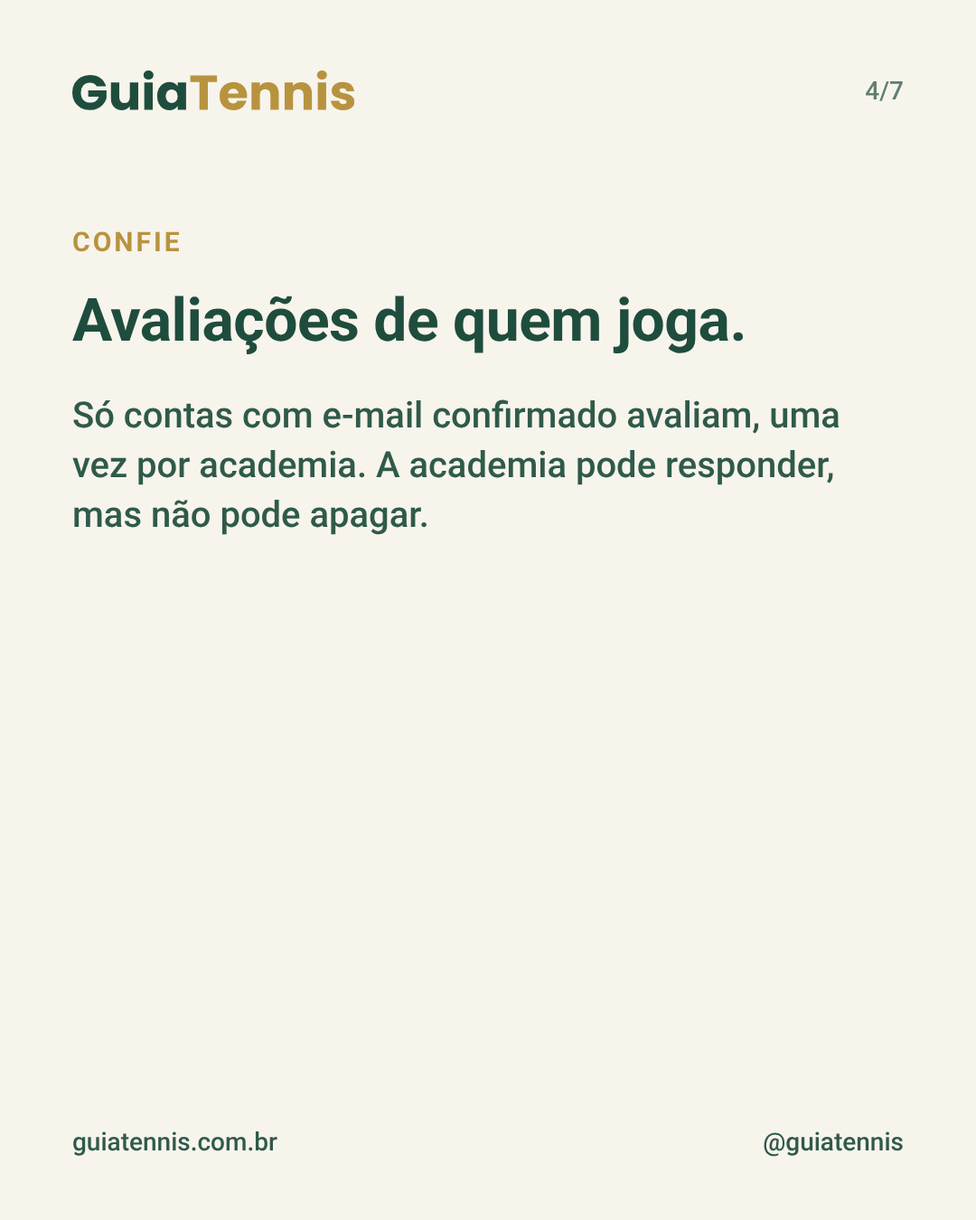
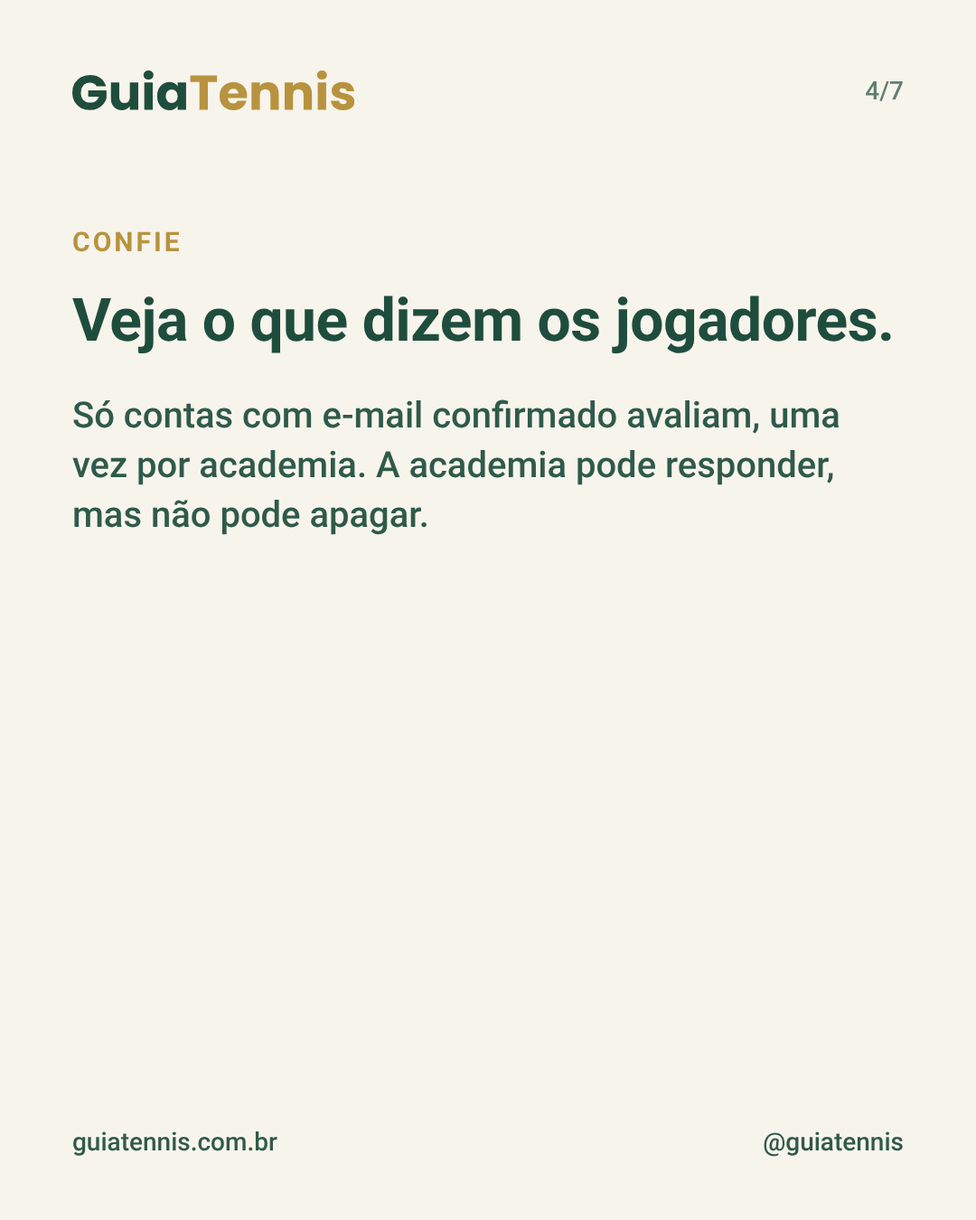
Kit do Instagram com a estratégia de gatilhos verdadeiros: dor, risco zero, escassez real, curiosidade e prova social
Claude-Session: https://claude.ai/code/session_013HDjzM8Wjp8KK1LoemJUSu

Changed region(s): [[0.0611, 0.2178, 0.9167, 0.28]]

diff --git a/divulgacao/lancamento/gerar-lancamento.js b/divulgacao/lancamento/gerar-lancamento.js
@@ -78,62 +78,68 @@ function stories({ eyebrow = '', titulo = '', texto = '' }) {
   <div class="linha" style="bottom:150px;font-size:38px;font-weight:500;opacity:.92">@guiatennis</div>`, 700);
 }
 
-// ---------- Carrossel 1 (quinta): como usar o site, passo a passo ----------
-// O perfil já apresentou a ideia (25/11/2026: "já falamos algumas coisas sobre a ideia,
-// mas não muito como usar o site"): agora o passo a passo, com os botões e os filtros
-// com os nomes que estão no site.
+// ---------- Os textos (regra de marketing de 22/11/2026 e pedido de 26/11/2026: "a melhor
+// estratégia para o Instagram de marketing, como aquela regra de gatilhos para venda [...]
+// a gente precisa conversar com o público, trabalhamos com brasileiros e precisamos vender
+// o site também"). Gatilhos só verdadeiros: a dor real de quem joga em São Paulo (preço
+// escondido, trânsito, chuva), risco zero (grátis, sem cadastro, sem taxa), escassez real
+// (as 15 vagas de Fundadora, contadas no site), novidade, curiosidade e reciprocidade
+// (conteúdo útil para salvar). Prova social só com o que existe (academias marcadas,
+// comentários e avaliações reais); nenhum número inventado.
+// ---------- Carrossel 1 (quinta): o passo a passo ----------
 const passoAPasso = [
-  { grande: true, quadra: 560, eyebrow: 'Passo a passo', titulo: 'Como encontrar aula de tênis perto de você em 1 minuto.', texto: 'Salve para usar quando precisar.', rodape: 'Deslize ›' },
-  { tom: 'creme', ui: 'busca', eyebrow: 'Passo 1', titulo: 'Diga onde você está.', texto: 'Em guiatennis.com.br, digite o bairro ou o CEP, ou toque em "Usar minha localização".' },
-  { ui: 'filtros', eyebrow: 'Passo 2', titulo: 'Filtre do seu jeito.', texto: 'Aula ou locação, piso, quadra coberta, preço e horário.' },
-  { tom: 'creme', ui: 'ficha', eyebrow: 'Passo 3', titulo: 'Abra a ficha da academia.', texto: 'Tudo o que você precisa saber antes de chamar:' },
+  { grande: true, quadra: 560, eyebrow: 'Salve este post', titulo: 'Pare de mandar mensagem para 10 academias só para saber o preço.', texto: 'Veja como encontrar aula de tênis perto de você em 1 minuto.', rodape: 'Deslize ›' },
+  { tom: 'creme', ui: 'busca', eyebrow: 'Passo 1', titulo: 'Diga onde você está.', texto: 'Em guiatennis.com.br, digite o bairro ou o CEP, ou toque em "Usar minha localização". Perto de casa ou do trabalho: menos trânsito, mais quadra.' },
+  { ui: 'filtros', eyebrow: 'Passo 2', titulo: 'Filtre do seu jeito.', texto: 'Aula ou locação, piso, quadra coberta para os dias de chuva, preço e horário.' },
+  { tom: 'creme', ui: 'ficha', eyebrow: 'Passo 3', titulo: 'Veja tudo antes de chamar.', texto: 'Na ficha de cada academia:' },
   { ui: 'whatsapp', eyebrow: 'Passo 4', titulo: 'Chame direto no WhatsApp.', texto: 'Sem intermediário e sem taxa: você combina o horário e o valor com a academia.' },
-  { tom: 'creme', ui: 'varias', eyebrow: 'Dica', titulo: 'Quer comparar preços?', texto: 'Na lista da busca, peça o preço a várias academias de uma vez.' },
-  { grande: true, quadra: 560, eyebrow: 'Teste agora', titulo: 'guiatennis.com.br', texto: 'Mande para quem quer começar a jogar.', rodape: 'O link está na bio' },
-];
-// ---------- Carrossel 4 (semana que vem): funções que facilitam ----------
-const funcoes = [
-  { grande: true, quadra: 560, eyebrow: 'Você sabia?', titulo: '5 funções do GuiaTennis que facilitam a sua vida.', texto: 'Salve para não esquecer.', rodape: 'Deslize ›' },
-  { tom: 'creme', eyebrow: '1 · Comparar academias', titulo: 'Lado a lado.', texto: 'Escolha algumas academias e veja preço, estrutura e nota uma ao lado da outra.' },
-  { eyebrow: '2 · Favoritas', titulo: 'Guarde as que você gostou.', texto: 'Toque no coração da ficha e encontre as academias depois, no menu, em "Favoritas".' },
-  { tom: 'creme', eyebrow: '3 · Vou viajar', titulo: 'A raquete vai junto.', texto: 'Informe a cidade e o lugar em que você vai ficar e veja as quadras mais perto de lá.' },
-  { eyebrow: '4 · Quadras públicas', titulo: 'Jogar sem pagar.', texto: 'Use o filtro "Quadras públicas" para encontrar as quadras gratuitas em parques e praças.' },
-  { tom: 'creme', eyebrow: '5 · Sugerir', titulo: 'Falta alguma quadra?', texto: 'Toque em "Sugerir uma quadra ou academia", no fim da busca ou no menu. A equipe do GuiaTennis confere e coloca no site.' },
-  { grande: true, quadra: 560, eyebrow: 'Conte para nós', titulo: 'Qual delas você vai usar primeiro?', texto: 'Responda nos comentários.', rodape: 'guiatennis.com.br · link na bio' },
+  { tom: 'creme', ui: 'varias', eyebrow: 'Dica de quem economiza', titulo: 'Compare antes de decidir.', texto: 'Na lista da busca, peça o preço a várias academias de uma vez e escolha com calma.' },
+  { grande: true, quadra: 560, eyebrow: 'Grátis · sem cadastro · sem taxa', titulo: 'Teste agora: guiatennis.com.br', texto: 'Mande este post para quem joga com você.', rodape: 'O link está na bio' },
 ];
 // ---------- Carrossel 2 (domingo): o lançamento ----------
 const lancamento = [
-  { grande: true, quadra: 560, eyebrow: 'Chegou', titulo: 'O novo GuiaTennis está no ar.', texto: 'Aula e quadra de tênis perto de você: compare e fale direto com a academia.', rodape: 'Deslize ›' },
+  { grande: true, quadra: 560, eyebrow: 'Chegou', titulo: 'O novo GuiaTennis está no ar.', texto: 'Aula e quadra de tênis perto de você, em um só lugar.', rodape: 'Deslize e veja o que mudou ›' },
   { tom: 'creme', eyebrow: 'Busque', titulo: 'Pelo seu bairro.', texto: 'Digite o bairro ou o CEP, ou use a sua localização. As academias mais perto aparecem primeiro, na lista ou no mapa.' },
-  { eyebrow: 'Compare', titulo: 'Antes de chamar.', itens: [
+  { eyebrow: 'Compare', titulo: 'Sem surpresa na hora de pagar.', itens: [
     'Preço das aulas e da locação de quadra.',
-    'Tipo de piso e se a quadra é coberta.',
+    'Piso e se a quadra é coberta.',
     'Estacionamento, vestiário e outras comodidades.',
     'Aulas para adultos e para crianças.'] },
-  { tom: 'creme', eyebrow: 'Confie', titulo: 'Avaliações de quem joga.', texto: 'Só contas com e-mail confirmado avaliam, uma vez por academia. A academia pode responder, mas não pode apagar.' },
-  { eyebrow: 'Chame', titulo: 'Direto no WhatsApp.', texto: 'Sem intermediário e sem taxa: você combina o horário e o valor direto com a academia.' },
-  { tom: 'creme', eyebrow: 'Feito para quem joga', titulo: 'Grátis, sem cadastro e sem taxa.', texto: 'Conhece uma quadra ou academia que ainda não está no GuiaTennis? Sugira pelo site.' },
-  { grande: true, quadra: 560, eyebrow: 'Experimente agora', titulo: 'guiatennis.com.br', texto: 'O link está na bio.', rodape: 'Marque quem precisa de uma quadra' },
+  { tom: 'creme', eyebrow: 'Confie', titulo: 'Veja o que dizem os jogadores.', texto: 'Só contas com e-mail confirmado avaliam, uma vez por academia. A academia pode responder, mas não pode apagar.' },
+  { eyebrow: 'Choveu?', titulo: 'Filtre as quadras cobertas.', texto: 'E use "Aberto agora" para achar onde jogar hoje.' },
+  { tom: 'creme', eyebrow: 'Chame', titulo: 'Direto no WhatsApp, sem taxa.', texto: 'Você combina tudo com a academia. O GuiaTennis não fica no meio e não cobra nada de quem joga.' },
+  { grande: true, quadra: 560, eyebrow: 'Grátis · sem cadastro · sem taxa', titulo: 'Experimente agora.', texto: 'Comente o seu bairro: respondemos com as academias de lá.', rodape: 'guiatennis.com.br · link na bio' },
 ];
 // ---------- Carrossel 3 (segunda): para as academias ----------
 const academias = [
-  { grande: true, quadra: 560, eyebrow: 'Para academias de tênis', titulo: 'A sua academia no GuiaTennis.', texto: 'Mais alunos chegando pelo WhatsApp, sem taxa por aluno.', rodape: 'Deslize ›' },
-  { tom: 'creme', eyebrow: 'Quem chega já sabe o que quer', titulo: 'O jogador chama pronto para marcar.', texto: 'Ele vê preço, estrutura e avaliações antes de chamar. A conversa no WhatsApp já começa pela aula ou pelo horário.' },
+  { grande: true, quadra: 560, eyebrow: 'Para donos de academia de tênis', titulo: 'Os alunos procuram aula no celular. A sua academia aparece?', texto: 'No GuiaTennis, ela aparece para quem procura no bairro, e de graça.', rodape: 'Deslize ›' },
+  { tom: 'creme', eyebrow: 'Quem chega já está decidido', titulo: 'O jogador chama pronto para marcar.', texto: 'Ele vê o preço, a estrutura e as avaliações antes. A conversa no WhatsApp já começa pelo horário.' },
   { eyebrow: 'GuiaTennis Parceiros, grátis', titulo: 'Tudo da academia em um só lugar.', itens: [
     'Preços, horários e todas as comodidades na ficha.',
     'Fotos da academia.',
     'Resposta pública a cada avaliação.',
     'QR code da ficha para a recepção.'], rodape: 'Nos planos Completo e Premium: mais fotos, Instagram e site e quantos chamaram' },
-  { tom: 'creme', eyebrow: 'Fundadoras: 15 vagas', titulo: 'O selo "Fundadora do GuiaTennis".', texto: 'Os 15 primeiros donos de academia a chegar ao GuiaTennis ganham o selo na ficha, para sempre.' },
-  { grande: true, quadra: 560, eyebrow: 'guiatennis.com.br/parceiros', titulo: 'Comece grátis.', texto: 'Cadastre a academia ou assuma a ficha que já está no Guia.', rodape: 'Marque a academia em que você joga' },
+  { tom: 'creme', eyebrow: 'Sem risco', titulo: 'Sem comissão por aluno.', texto: 'O jogador chama direto no WhatsApp da academia. E o Premium pode ser testado por 1 mês grátis.' },
+  { eyebrow: 'Só 15 vagas', titulo: 'Selo "Fundadora do GuiaTennis", para sempre.', texto: 'Para os 15 primeiros donos de academia a chegar ao GuiaTennis. Veja no site quantas vagas restam.' },
+  { grande: true, quadra: 560, eyebrow: 'guiatennis.com.br/parceiros', titulo: 'Garanta a vaga da sua academia.', texto: 'Cadastre a academia ou assuma a ficha que já está no Guia.', rodape: 'Marque a academia em que você joga' },
+];
+// ---------- Carrossel 4 (semana que vem): funções que facilitam ----------
+const funcoes = [
+  { grande: true, quadra: 560, eyebrow: 'Salve para não esquecer', titulo: '5 funções do GuiaTennis que facilitam a sua vida.', texto: 'A 3ª é para quem vai viajar.', rodape: 'Deslize ›' },
+  { tom: 'creme', eyebrow: '1 · Comparar academias', titulo: 'Lado a lado.', texto: 'Escolha algumas academias e veja preço, estrutura e nota uma ao lado da outra.' },
+  { eyebrow: '2 · Favoritas', titulo: 'Guarde as de que você gostou.', texto: 'Toque no coração da ficha e encontre as academias depois, no menu, em "Favoritas".' },
+  { tom: 'creme', eyebrow: '3 · Vou viajar', titulo: 'A raquete vai junto.', texto: 'Informe a cidade e o lugar em que você vai ficar e veja as quadras mais perto de lá.' },
+  { eyebrow: '4 · Quadras públicas', titulo: 'Jogar sem pagar.', texto: 'Use o filtro "Quadras públicas" para encontrar as quadras gratuitas em parques e praças.' },
+  { tom: 'creme', eyebrow: '5 · Sugerir', titulo: 'Falta alguma quadra?', texto: 'Toque em "Sugerir uma quadra ou academia", no fim da busca ou no menu. A equipe do GuiaTennis confere e coloca no site.' },
+  { grande: true, quadra: 560, eyebrow: 'Responda nos comentários', titulo: 'Qual delas você vai usar primeiro?', texto: 'Comente só o número: 1, 2, 3, 4 ou 5.', rodape: 'guiatennis.com.br · link na bio' },
 ];
 // ---------- Stories ----------
 const historias = {
-  'stories-1-quinta-contagem.png': { eyebrow: 'Domingo, 29/11', titulo: 'Algo novo chega para quem joga tênis.', figurinha: 'adicione aqui a figurinha de contagem regressiva' },
-  'stories-2-quinta-enquete.png': { eyebrow: 'Responda', titulo: 'Em que bairro você joga?', figurinha: 'adicione aqui a figurinha de enquete ou de pergunta' },
-  'stories-3-sexta-perguntas.png': { eyebrow: 'Queremos ouvir você', titulo: 'O que mais dificulta encontrar aula de tênis?', figurinha: 'adicione aqui a caixa de perguntas' },
-  'stories-4-domingo-no-ar.png': { eyebrow: 'Está no ar', titulo: 'O novo GuiaTennis chegou.', texto: 'Aula e quadra de tênis perto de você.', figurinha: 'adicione aqui a figurinha de link: guiatennis.com.br' },
-  'stories-5-segunda-academias.png': { eyebrow: 'Para academias', titulo: 'Sua academia no GuiaTennis, grátis.', texto: 'Os 15 primeiros donos ganham o selo Fundadora.', figurinha: 'adicione aqui o link: guiatennis.com.br/parceiros' },
+  'stories-1-quinta-contagem.png': { eyebrow: 'Domingo, 18h', titulo: 'Algo novo para quem joga tênis em São Paulo.', texto: 'Toque em "Lembrar" para não perder.' },
+  'stories-2-quinta-enquete.png': { eyebrow: 'Responda', titulo: 'O que mais atrapalha na hora de achar aula de tênis?' },
+  'stories-3-sexta-perguntas.png': { eyebrow: 'Queremos ouvir você', titulo: 'Em que bairro você joga?', texto: 'Respondemos com as academias de lá.' },
+  'stories-4-domingo-no-ar.png': { eyebrow: 'Está no ar', titulo: 'O novo GuiaTennis chegou.', texto: 'Grátis, sem cadastro e sem taxa.' },
+  'stories-5-segunda-academias.png': { eyebrow: 'Só 15 vagas', titulo: 'Selo "Fundadora do GuiaTennis".', texto: 'Para os 15 primeiros donos de academia a chegar.' },
 };
 
 (async () => {

diff --git a/divulgacao/lancamento/ROTEIRO.md b/divulgacao/lancamento/ROTEIRO.md
@@ -1,21 +1,53 @@
 # Lançamento do novo GuiaTennis no Instagram (domingo, 29/11/2026)
 
-A linha: **conversar e ensinar**. O perfil já apresentou a ideia; agora mostra **como usar o site**, em
-carrosséis de passo a passo e, principalmente, em **vídeos com você falando**: no perfil, eles tiveram de 2 a
-10 vezes mais visualizações que os carrosséis (1.416 e 627, contra 140 a 293). Em todo post, um convite para o
-público responder: comentário, enquete ou pergunta. Quem responde vê mais os posts seguintes e vira contato.
+## A estratégia
+
+**Conversar, ensinar e só então vender.** O perfil já apresentou a ideia; agora mostra **como usar o site**
+e fala das **dores reais de quem joga em São Paulo**: preço escondido, trânsito e chuva. O formato principal é
+o **vídeo com você falando**: no perfil, ele teve de 2 a 10 vezes mais visualizações que os carrosséis
+(1.416 e 627, contra 140 a 293). Os carrosséis são o material para salvar e compartilhar.
+
+Cada peça segue a mesma ordem (a dos grandes perfis de produto, como o Nubank e o Airbnb):
+1. **Gancho** nos 3 primeiros segundos ou na capa: uma dor ou uma curiosidade.
+2. **Valor**: algo útil, que a pessoa salva ou manda para alguém.
+3. **Convite**: um único pedido claro (comentar, salvar, compartilhar ou tocar no link).
+
+### Os gatilhos de venda, sempre verdadeiros
+
+| Gatilho | Onde usamos | Regra |
+|---|---|---|
+| **Dor** (problema real) | "Pare de mandar mensagem para 10 academias só para saber o preço"; trânsito; chuva | Só dores que o site resolve de verdade |
+| **Risco zero** | "Grátis · sem cadastro · sem taxa" no fim de cada carrossel; para academias, "sem comissão por aluno" e o Premium com 1 mês grátis | É o que o site oferece hoje |
+| **Escassez** | As **15 vagas** de Fundadora | Real e contada no site; nunca dizer quantas restam sem conferir |
+| **Urgência** | Contagem regressiva para domingo, 18h | Data real do lançamento |
+| **Novidade** | "Chegou o novo GuiaTennis" | — |
+| **Curiosidade** | "A 3ª é para quem vai viajar"; "Algo novo para quem joga tênis em São Paulo" | A resposta tem de vir no próprio post |
+| **Reciprocidade** | Passo a passo, "Quanto custa aula de tênis em SP?", dicas para salvar | Dar valor antes de pedir |
+| **Prova social** | Marcar as academias que já estão no Guia; repostar comentários e Stories de quem usou; avaliações reais (com autorização) | **Nunca inventar números nem depoimentos** |
+| **Pertencimento** | "Para quem joga tênis em São Paulo"; "Marque quem joga com você" | — |
+
+### O que transforma seguidor em contato
+- **"Comente o seu bairro"**: responda a cada comentário com o link da página do bairro (ex.:
+  guiatennis.com.br/quadras/sao-paulo/moema) e, se a pessoa quiser, por mensagem direta. Cada resposta leva
+  alguém ao site, e o Instagram mostra mais o post que tem conversa.
+- **Responda tudo na primeira hora** depois de postar: é a hora em que o Instagram decide para quantas
+  pessoas mostrar o post.
+- **Posts em colaboração (Collab)** com as academias: o post aparece nos dois perfis.
 
 ## Cronograma
 
 | Quando | O quê | Arquivos |
 |---|---|---|
-| **Quarta (hoje)** | Trocar a bio (abaixo). Conferir as fichas da região em que for divulgar mais (preço e foto). | — |
-| **Quinta, 12h** | Carrossel "Como encontrar aula de tênis em 1 minuto" (passo a passo) + Stories com contagem regressiva e enquete | `carrossel-1-quinta-passo-a-passo-1` a `7`, `stories-1`, `stories-2` |
-| **Sexta, 18h** | Reels 1, você falando com o site na tela (roteiro abaixo) + Stories com caixa de perguntas | `stories-3` |
-| **Sábado** | Stories respondendo às perguntas de sexta e repostando as academias que já estão no Guia | — |
-| **Domingo, 18h** | Carrossel "Chegou" + Reels gravando a tela + Stories com o link. Fixar os carrosséis de quinta e de domingo no perfil | `carrossel-2-domingo-lancamento-1` a `7`, `stories-4` |
-| **Segunda, 12h** | Carrossel para academias + Stories + mensagem no WhatsApp para cada academia | `carrossel-3-segunda-academias-1` a `5`, `stories-5` |
-| **Semana que vem** | Carrossel "5 funções que facilitam" (quarta) e os Reels 2, 3 e 4 (terça, quinta e sábado, 18h) | `carrossel-4-semana-que-vem-funcoes-1` a `7` |
+| **Quarta (hoje)** | Trocar a bio e a categoria (abaixo). Conferir as fichas do bairro que você vai mostrar nos vídeos (preço e foto). | — |
+| **Quinta, 12h** | Carrossel "Pare de mandar mensagem para 10 academias" (passo a passo) + Stories com contagem regressiva e enquete | `carrossel-1-quinta-passo-a-passo-1` a `7`, `stories-1`, `stories-2` |
+| **Sexta, 18h** | Reels 1, você falando com o site na tela + Stories "Em que bairro você joga?" | `stories-3` |
+| **Sábado** | Stories respondendo aos bairros e repostando as academias que já estão no Guia (prova social) | — |
+| **Domingo, 18h** | Carrossel "Chegou" + Reels de tela + Stories com o link. Fixar no perfil o carrossel de domingo e o de quinta | `carrossel-2-domingo-lancamento-1` a `7`, `stories-4` |
+| **Segunda, 12h** | Carrossel para academias + Stories + mensagem no WhatsApp para cada academia | `carrossel-3-segunda-academias-1` a `6`, `stories-5` |
+| **Semana que vem** | Carrossel "5 funções" (quarta) e os Reels 2, 3, 4 e 5 (terça, quinta, sábado e domingo, 18h) | `carrossel-4-semana-que-vem-funcoes-1` a `7` |
+
+O carrossel "5 funções" fala do botão "Sugerir uma quadra ou academia": poste-o só depois que as novidades do
+site estiverem no ar.
 
 ## Bio
 
@@ -24,101 +56,120 @@ público responder: comentário, enquete ou pergunta. Quem responde vê mais os 
 > 💬 Fale direto com a academia, sem taxa
 > 👇 Grátis, sem cadastro
 
-O link guiatennis.com.br fica no campo de link, logo abaixo. Um emoji no começo de cada linha, como
-marcador (como o Nubank e o Airbnb fazem): ajuda a ler rápido sem poluir. Categoria do perfil: troque
-"Health & wellness website" por uma de esporte (procure "esporte" na lista de categorias).
-
-Destaques fixos: **Como usar** (o Reels de domingo), **Academias** (o carrossel de segunda) e **Novidades**.
+O link guiatennis.com.br fica no campo de link, logo abaixo. **Categoria:** troque "Health & wellness website"
+por uma de esporte (em Editar perfil › Categoria, procure "esporte"). **Destaques fixos:** "Como usar" (os
+Reels), "Academias" (o carrossel de segunda) e "Novidades".
 
 ## Legendas
 
-**Quinta — "Como encontrar aula de tênis em 1 minuto"**
+**Quinta — passo a passo**
 
-> Aula de tênis perto de você em 4 passos: diga onde você está, filtre do seu jeito, abra a ficha da
-> academia e chame direto no WhatsApp. Sem cadastro, sem taxa e sem intermediário.
+> Você também já mandou mensagem para várias academias só para saber o preço? 😅
 >
-> Salve este post para usar quando precisar e mande para quem quer começar a jogar.
-> No domingo, o novo GuiaTennis chega para todos.
+> No GuiaTennis, você encontra aula de tênis perto de você em 1 minuto:
+> 1⃣ diga onde você está
+> 2⃣ filtre do seu jeito
+> 3⃣ veja tudo na ficha da academia
+> 4⃣ chame direto no WhatsApp
 >
-> 💬 Conte nos comentários: em que bairro você joga?
+> Grátis, sem cadastro e sem taxa. E, no domingo, chega o novo GuiaTennis. 👀
+>
+> 📌 Salve para usar quando precisar e mande para quem joga com você.
+> 💬 Em que bairro você joga? Respondemos com as academias de lá.
 >
 > #tenis #tenissp #aulasdetenis #quadradetenis #saopaulo
 
-**Domingo — "Chegou"**
+**Domingo — lançamento**
 
-> O novo GuiaTennis está no ar. 🎾
+> Chegou o novo GuiaTennis. 🎾
 >
-> Busque pelo seu bairro, compare preço, estrutura e avaliações e fale direto com a academia pelo WhatsApp. Sem
-> intermediário, sem taxa e sem cadastro para buscar.
+> Aula e quadra de tênis perto de você, em um só lugar: busque pelo bairro, compare preço, estrutura e
+> avaliações e fale direto com a academia pelo WhatsApp. Choveu? Filtre as quadras cobertas.
 >
-> Comente o seu bairro: respondemos com as academias de lá.
-> O link está na bio: guiatennis.com.br
+> ✅ Grátis para quem joga ✅ Sem cadastro para buscar ✅ Sem taxa
+>
+> 💬 Comente o seu bairro: respondemos com as academias de lá.
+> 🔗 Link na bio: guiatennis.com.br
 >
 > #tenis #tenissp #aulasdetenis #quadradetenis #saopaulo
 
-**Segunda — "Para academias"**
+**Segunda — academias**
 
-> A sua academia no GuiaTennis, grátis. Quem procura aula vê preço, estrutura e avaliações antes de
-> chamar e chega pelo WhatsApp pronto para marcar.
+> Dono de academia de tênis: os alunos procuram aula no celular. A sua academia aparece? 👀
 >
-> Os 15 primeiros donos de academia a chegar ganham o selo "Fundadora do GuiaTennis" na ficha, para
-> sempre.
+> No GuiaTennis, a ficha é grátis e o jogador chama direto no seu WhatsApp, sem comissão por aluno.
 >
-> Comece em guiatennis.com.br/parceiros
+> 🏆 Só 15 vagas: os 15 primeiros donos de academia a chegar ganham o selo "Fundadora do GuiaTennis" na
+> ficha, para sempre.
+>
+> 👉 guiatennis.com.br/parceiros
 > Marque a academia em que você joga. 👇
 >
 > #tenis #academiadetenis #tenissp #saopaulo
 
+**Semana que vem — 5 funções**
+
+> 5 funções do GuiaTennis que facilitam a sua vida (a 3ª é para quem vai viajar). ✈🎾
+>
+> 💬 Qual você vai usar primeiro? Comente só o número.
+> 📌 Salve para não esquecer.
+> 🔗 guiatennis.com.br, link na bio
+
 ## Stories
 
-1. **Quinta — `stories-1`:** figurinha de **contagem regressiva** ("Lançamento do GuiaTennis", domingo, 18h).
-   Quem toca em "Lembrar" recebe o aviso na hora do lançamento.
-2. **Quinta — `stories-2`:** figurinha de **enquete** com as 4 regiões (Zona Sul, Oeste, Norte e Leste) ou
-   de **pergunta** ("Digite o seu bairro"). As respostas mostram onde divulgar primeiro.
-3. **Sexta — `stories-3`:** **caixa de perguntas**. No sábado, responda às melhores com a figurinha
-   "Responder" (vira conteúdo e mostra que há gente por trás).
+1. **Quinta — `stories-1`:** figurinha de **contagem regressiva** ("Novo GuiaTennis", domingo, 18h). Quem toca
+   em "Lembrar" recebe o aviso na hora do lançamento.
+2. **Quinta — `stories-2`:** figurinha de **enquete** com 4 opções: "Preço escondido", "Distância e trânsito",
+   "Horário" e "Achar academia boa". O resultado vira assunto dos próximos posts.
+3. **Sexta — `stories-3`:** figurinha de **pergunta** ("Digite o seu bairro"). No sábado, responda com a
+   figurinha "Responder" e o link da página do bairro.
 4. **Domingo — `stories-4`:** figurinha de **link** para guiatennis.com.br. Em seguida, a gravação da tela.
 5. **Segunda — `stories-5`:** figurinha de **link** para guiatennis.com.br/parceiros.
 
 ## Reels com você falando (o formato que mais funciona no perfil)
 
-Como os dois vídeos que mais deram certo: você olhando para a câmera, a frase-gancho escrita na tela nos
-primeiros 3 segundos e legenda automática ligada. Para mostrar o site atrás de você, use o efeito **"Tela
+Como os vídeos que mais deram certo: você olhando para a câmera, a frase-gancho escrita na tela nos 3
+primeiros segundos e a legenda automática ligada. Para mostrar o site atrás de você, use o efeito **"Tela
 verde"** do Instagram (Reels › Efeitos › Tela verde) com um print do site. De 20 a 35 segundos cada.
 
-**Reels 1 (sexta) — "Como achar aula de tênis perto de você"**
-- Texto na tela: **"Aula de tênis perto de você em 1 minuto"**
-- "Quer jogar tênis e não sabe por onde começar? Veja como é simples." (tela verde com a busca) "Entre no
-  guiatennis.com.br, digite o seu bairro ou toque em 'Usar minha localização'." (print da lista) "Aparecem as
-  academias mais perto, com o preço de quem informa." (print da ficha) "Abra a de que você gostou, veja a
-  quadra, o preço e as avaliações e chame direto no WhatsApp, sem taxa. Salve este vídeo e mande para quem
-  quer começar."
+**Reels 1 (sexta) — dor + passo a passo**
+- Texto na tela: **"Pare de mandar mensagem para 10 academias"**
+- "Você também manda mensagem para várias academias só para saber o preço da aula? Veja como resolver em 1
+  minuto." (tela verde com a busca) "Entre no guiatennis.com.br, digite o seu bairro ou toque em 'Usar minha
+  localização'." (print da lista) "Aparecem as academias mais perto, com o preço de quem informa." (print da
+  ficha) "Abra a de que você gostou, veja a quadra e as avaliações e chame direto no WhatsApp, sem taxa. Salve
+  este vídeo e mande para quem joga com você."
 
-**Reels 2 — "Quanto custa aula de tênis em São Paulo?"**
+**Reels 2 — curiosidade + engajamento**
 - Texto na tela: **"Quanto custa aula de tênis em SP?"**
-- "Essa é uma das perguntas que mais recebemos. Depende do bairro e do tipo de aula: individual, em dupla
-  ou em grupo." (tela verde com a ordem "Menor preço") "No GuiaTennis, você ordena por menor preço e vê o
-  valor antes de chamar, nas academias que informam o preço. Comente o seu bairro, e eu respondo com as
-  opções de lá."
+- "Essa é uma das perguntas que mais recebemos. Depende do bairro e do tipo de aula: individual, em dupla ou
+  em grupo." (tela verde com a ordem "Menor preço") "No GuiaTennis, você ordena por menor preço e vê o valor
+  antes de chamar, nas academias que informam o preço. Comente o seu bairro, e eu respondo com as opções de
+  lá."
 
-**Reels 3 — "Seu filho quer jogar tênis?"**
+**Reels 3 — pais**
 - Texto na tela: **"Aula de tênis para crianças perto de você"**
 - "Seu filho quer jogar tênis? No GuiaTennis, busque pelo seu bairro e abra a ficha das academias." (print
   da ficha) "No cartão 'Aulas para crianças', aparecem as turmas por idade e o preço. Mande este vídeo para
   quem está procurando aula para o filho."
 
-**Reels 4 — "Vai viajar? Leva a raquete"**
+**Reels 4 — viagem (curiosidade)**
 - Texto na tela: **"Vai viajar? Leve a raquete"**
 - "Vai viajar e quer jogar tênis lá? No menu do GuiaTennis, toque em 'Vou viajar', informe a cidade e onde
   você vai ficar, e aparecem as quadras mais perto. Salve para a próxima viagem."
 
-Legenda de todos: a frase do texto na tela, mais "Link na bio: guiatennis.com.br" e uma pergunta para os
-comentários.
+**Reels 5 — academias (escassez real)**
+- Texto na tela: **"Dono de academia de tênis, isto é para você"**
+- "Se você tem uma academia de tênis em São Paulo, a sua ficha no GuiaTennis é grátis, e o jogador chama
+  direto no seu WhatsApp, sem comissão. E os 15 primeiros donos a chegar ganham o selo 'Fundadora do
+  GuiaTennis' para sempre. Entre em guiatennis.com.br/parceiros e garanta a vaga."
+
+Legenda de todos: a frase do texto na tela, um pedido só (comentar, salvar ou compartilhar) e "Link na bio:
+guiatennis.com.br".
 
 ## Reels de domingo: o site na prática (15 segundos)
 
 Grave a tela do celular no site (gravação de tela do próprio celular):
-
 1. Abrir guiatennis.com.br.
 2. Digitar um bairro com fichas completas (ex.: Moema) e buscar.
 3. Rolar a lista devagar e abrir uma ficha com preço e foto.
@@ -133,7 +184,7 @@ Música em alta do Instagram, baixa.
 > São Paulo.
 >
 > A [nome da academia] já está no Guia, e quem procura aula ou quadra na região chega direto ao seu
-> WhatsApp, sem taxa por aluno. Para deixar a ficha completa (preços, horários e fotos) e responder às
+> WhatsApp, sem comissão por aluno. Para deixar a ficha completa (preços, horários e fotos) e responder às
 > avaliações, basta entrar no GuiaTennis Parceiros, que é grátis:
 > guiatennis.com.br/parceiros
 >
@@ -141,11 +192,10 @@ Música em alta do Instagram, baixa.
 >
 > Qualquer dúvida, estou à disposição por aqui.
 
-## Depois do lançamento: o que mais traz contatos
+## Depois do lançamento
 
-- **Responder a todo comentário com o bairro** usando o link da página do bairro (ex.:
-  guiatennis.com.br/quadras/sao-paulo/moema). Cada resposta é um contato que chega ao site.
-- **Posts em colaboração** (Collab) com cada academia Fundadora: o post aparece nos dois perfis.
-- **Série "Tênis em [bairro]"**, um post por bairro, com o link da página dele.
-- **"Quanto custa aula de tênis em São Paulo"**, com os preços das fichas: conteúdo de dados é o que mais
-  se compartilha.
+- **Série "Tênis em [bairro]"**, um post por bairro, com o link da página dele (ajuda também no Google).
+- **"Quanto custa aula de tênis em São Paulo"**, com os preços das fichas: conteúdo com dados reais é o que
+  mais se compartilha.
+- **Prova social de verdade:** quando chegarem as primeiras avaliações, peça autorização e transforme em post
+  ("O que os jogadores dizem da [academia]").
